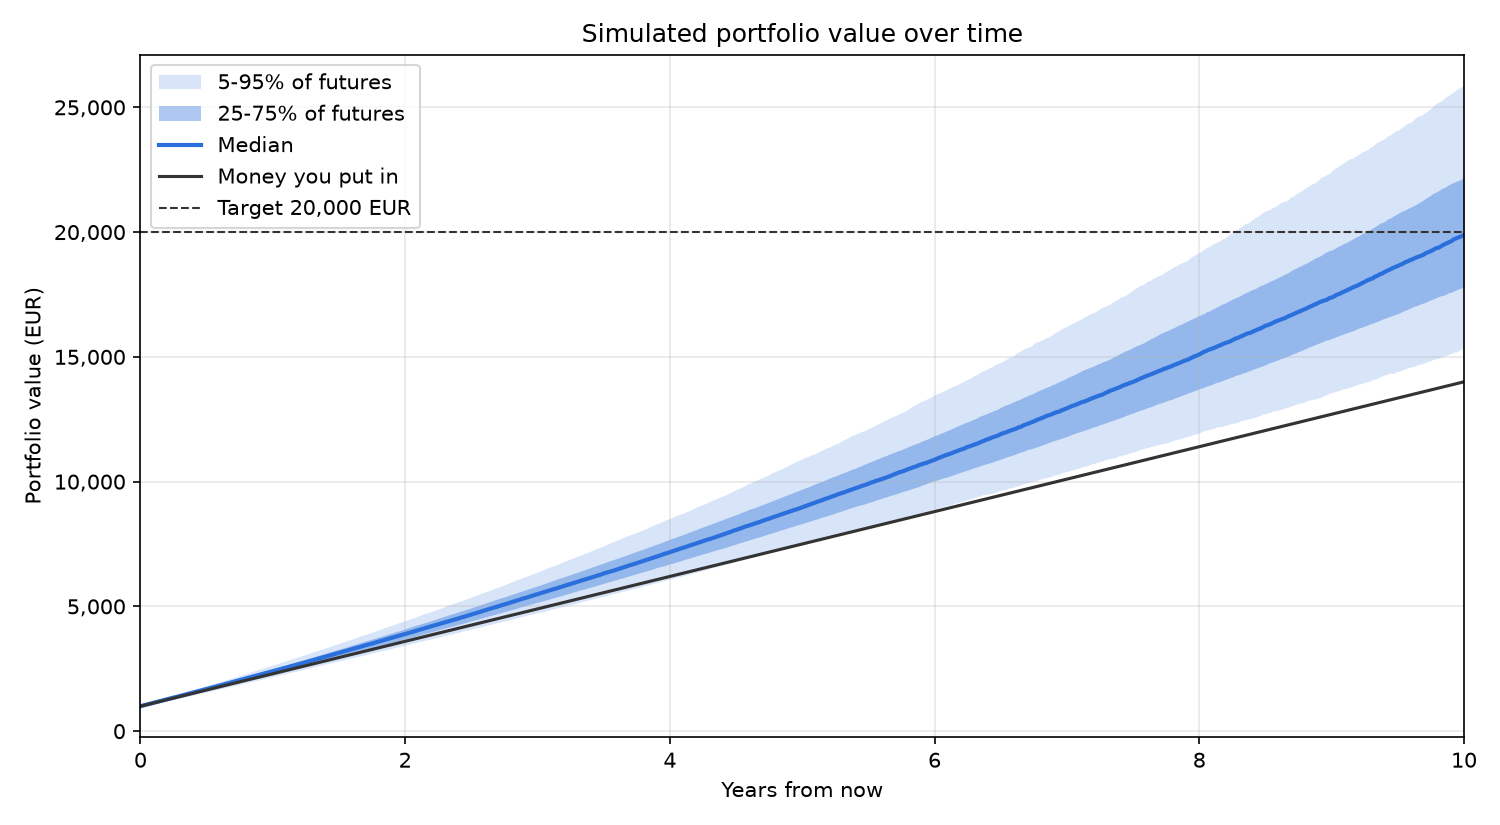
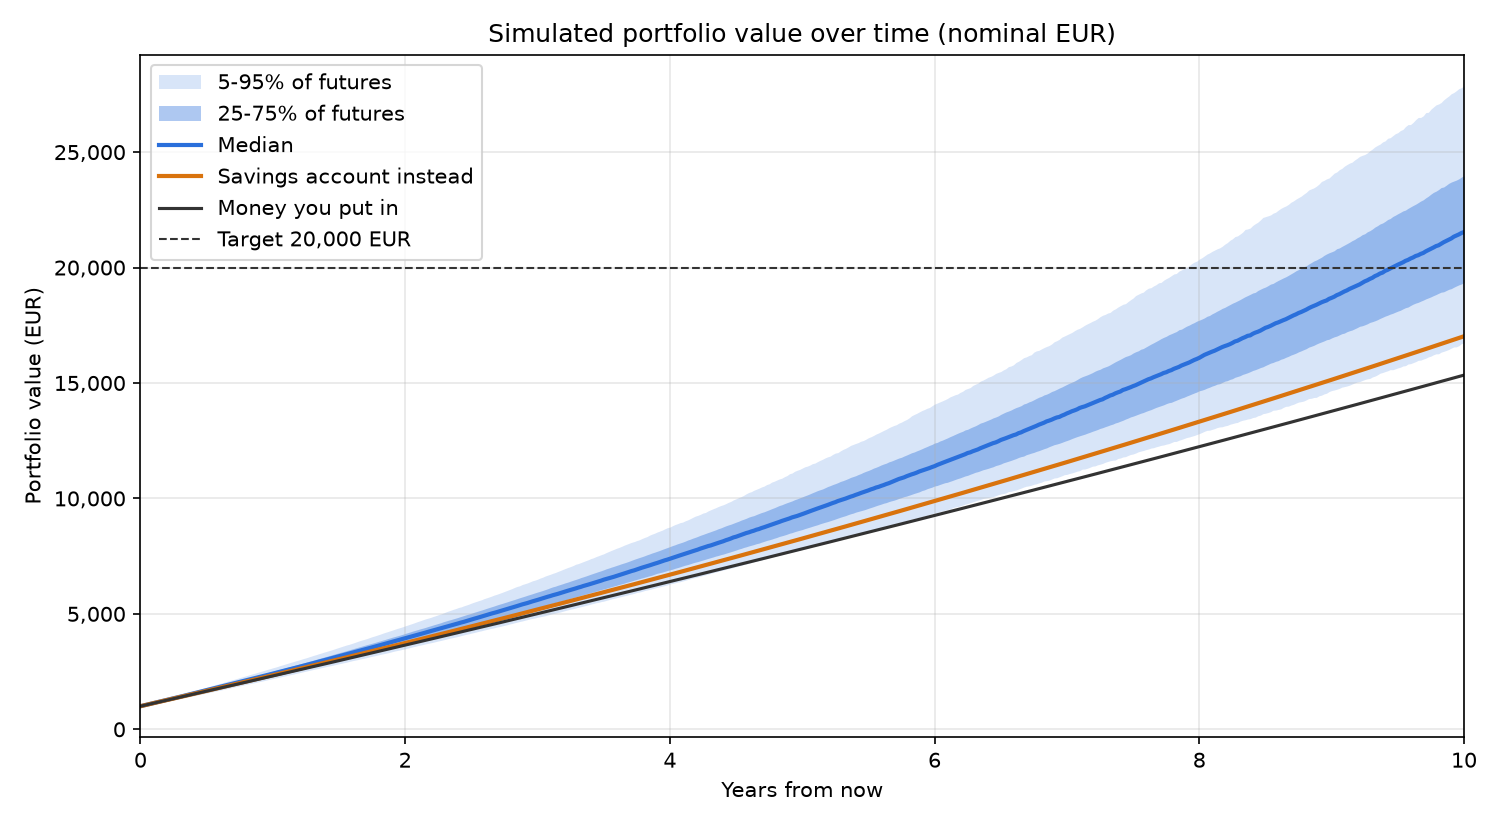
Update README and example chart for inflation and savings comparison

diff --git a/README.md b/README.md
@@ -1,12 +1,12 @@
 # Portfolio Monte Carlo Simulator
 
-How might an ETF portfolio with a fixed weekly contribution grow over the next 10 years, and how likely is it to reach a target value?
+How might an ETF portfolio with a regular weekly contribution grow over the next 10 years? How likely is it to reach a target value, and how much does investing actually gain compared with simply keeping the same money in a savings account?
 
-This tool downloads weekly prices for a set of EUR-listed ETFs, estimates their returns and correlations, and simulates 10,000 possible futures with the weekly contribution added. It then reports the range of outcomes.
+This tool downloads weekly prices for a set of EUR-listed ETFs, estimates their returns and correlations, and simulates 10,000 possible futures. Each week a contribution is added, and the contribution can rise with inflation. The same money is also put into a savings account, so the result shows the opportunity cost of each choice.
 
-![Fan chart: simulated portfolio value over 10 years](docs/fan_chart_example.png)
+![Fan chart: simulated portfolio value over 10 years, with the savings-account alternative](docs/fan_chart_example.png)
 
-*Example inputs: €1,000 start, €25 per week, 19 ETFs, 10 years, 10,000 simulations.*
+*Example inputs: €1,000 start, €25 per week rising 2% per year (raised every quarter), 19 ETFs, a savings account at 2%, 10 years, 10,000 simulations.*
 
 ## Method
 
@@ -14,28 +14,33 @@ This tool downloads weekly prices for a set of EUR-listed ETFs, estimates their 
 2. **Log returns.** `r_t = ln(P_t / P_{t-1})`. Log returns add up over time, so a multi-week return is just a sum.
 3. **Parameters.** The mean vector μ and the sample covariance matrix Σ of the weekly log returns.
 4. **Correlated simulation.** Each week's return vector is drawn as `μ + L·z`, with `z ~ N(0, I)` and `L` the Cholesky factor of Σ (`Σ = L·Lᵀ`). This keeps the historical correlations between ETFs. Ignoring them would make the risk look about 3 times smaller for this portfolio.
-5. **Portfolio with contributions.** Every week the holdings grow, the contribution is added, and the portfolio is rebalanced to the target weights.
-6. **Summary.** The 5th, 50th and 95th percentiles of the final value; the probability of reaching the target; the 5% Value at Risk (money put in minus the 5th percentile); and the share of the median final value that comes from investment growth.
+5. **Contributions.** A weekly amount that can stay flat or be raised every quarter, either with inflation or at its own growth rate.
+6. **Portfolio.** Every week the holdings grow, the contribution is added, and the portfolio is rebalanced to the target weights.
+7. **Savings-account alternative.** The same start value and contributions earn a fixed interest rate. Technically it is a one-asset portfolio with zero volatility, so it reuses the same tested code.
+8. **Summary.** The 5th, 50th and 95th percentiles of the final value; the probability of reaching the target; the 5% Value at Risk (money put in minus the 5th percentile); the growth share of the median; the probability of beating the savings account; and the extra gain from investing at the 5th, 50th and 95th percentiles.
 
-## Result (example inputs)
+## Result (example inputs, nominal EUR)
 
 | | |
 |---|---|
-| Money put in | €14,000 |
-| Final value: 5% / median / 95% | €15,350 / €19,887 / €25,873 |
-| Chance to reach €20,000 | 48.6% |
-| 5% Value at Risk | −€1,350 (even the worst 5% of outcomes end above the money put in) |
-| Median final value | 30% growth, 70% own contributions |
+| Money put in | €15,341 |
+| Final value: 5% / median / 95% | €16,734 / €21,539 / €27,884 |
+| Chance to reach €20,000 | 67.6% |
+| Savings account at 2% instead | €17,024 |
+| Chance the portfolio beats the savings account | 93.7% |
+| Extra from investing: 5% / median / 95% | −€290 / +€4,515 / +€10,860 |
 
-Over 10 years, the amount you save matters more than the returns: most of a typical final value is your own money.
+In a typical future, investing ends about €4,500 ahead of the savings account. In about 1 in 16 futures, however, the savings account would have been the better choice. Most of a typical final value is still the money put in: over 10 years, the saving rate matters more than the returns.
 
 ## Limitations
 
 - **The past is not the future.** The parameters come from about 8.5 years of data (2018–2026), mostly a good period for stocks and gold. The means in particular are estimated very imprecisely.
 - **Normal distribution: no fat tails.** Real markets have sudden crashes (like March 2020) far more often than a normal distribution predicts, so the real downside is probably larger.
 - **Constant parameters.** Volatility and correlations are assumed to stay the same for 10 years. In reality correlations tend to rise in a crisis.
-- **No fees, taxes or trading costs.** ETF fees and Dutch box 3 tax would lower every outcome.
-- **Weekly rebalancing** is assumed, with no costs. Contributions are added at the end of each week.
+- **Fixed inflation and savings rate.** Both are single numbers set by the user. In reality they change over time and move together (version 2 will simulate them).
+- **One currency.** Everything is in EUR. There is no exchange-rate risk (also planned for version 2).
+- **No fees, taxes or trading costs.** ETF fees and taxes would lower every outcome, and investments and savings are often taxed differently.
+- **Timing.** Weekly rebalancing is assumed, with no costs. Contributions are added at the end of each week.
 
 ## How to run
 
@@ -48,10 +53,28 @@ python main.py      # run the full simulation, print the summary, show the chart
 pytest -v           # run the tests
 ```
 
-The settings are in `src/config.py`. To use your own amounts without committing them, create `my_config.py` in the project root. It is listed in `.gitignore`.
+## Settings
+
+All settings are in `src/config.py`:
+
+| Setting | Meaning |
+|---|---|
+| `tickers` / `weights` | ETFs (Yahoo Finance symbols) and their weights, which must add up to 1 |
+| `start_value`, `weekly_contribution` | Money in, in EUR |
+| `years`, `n_sims`, `seed` | Horizon, number of simulations, random seed |
+| `target` | The final value to reach |
+| `inflation` | Inflation per year (used for raising contributions and for today's-money results) |
+| `index_contributions` | `True` raises contributions over time; `False` keeps them flat |
+| `contribution_growth` | `None` follows inflation, or a fixed growth rate such as `0.05` |
+| `index_every_weeks` | How often contributions are raised (13 = every quarter) |
+| `savings_rate` | Interest on the savings-account alternative |
+| `target_in_todays_money` | Whether the target is in today's buying power or in future euros |
+| `report_in_todays_money` | Whether to also show results adjusted for inflation |
+
+To use your own amounts without committing them, create `my_config.py` in the project root. It is listed in `.gitignore`, and any key in it overrides `src/config.py`:
 
 ```python
-PRIVATE = {"start_value": 5000, "weekly_contribution": 50, "target": 50_000}
+PRIVATE = {"start_value": 5000, "weekly_contribution": 50, "target": 50_000, "savings_rate": 0.02}
 ```
 
 ## Project structure
@@ -61,16 +84,18 @@ main.py              runs everything in order
 src/config.py        settings and validation
 src/data.py          download, cache and clean prices
 src/returns.py       log returns, mean and covariance
-src/simulate.py      Cholesky Monte Carlo and the portfolio with contributions
-src/analyze.py       percentiles, probability, VaR, growth share
+src/simulate.py      Cholesky Monte Carlo, contributions, portfolio and savings account
+src/analyze.py       percentiles, probability, VaR, today's money, savings comparison
 src/plots.py         fan chart and histogram
 tests/               pytest tests with known answers
 ```
 
-## Planned
+## Planned (version 2)
 
-A bootstrap method next to the normal distribution (fat tails), rebalancing on/off, maximum drawdown, USD→EUR conversion.
+- Separate currencies for investments and savings, with simulated exchange-rate risk
+- Simulated inflation and interest rates (autoregressive models on Eurostat data)
+- A bootstrap method next to the normal distribution (fat tails), rebalancing on/off, maximum drawdown
 
 ## Note on AI use
 
-AI (Claude) was used as a tutor and starting point for this project. The final code is my own rewrite, and I can explain every line.
+I Claude coded shit out of this project as you can probably tell.
